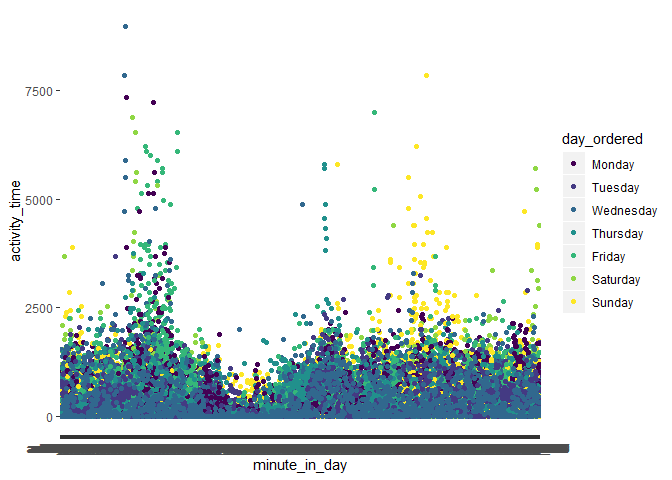
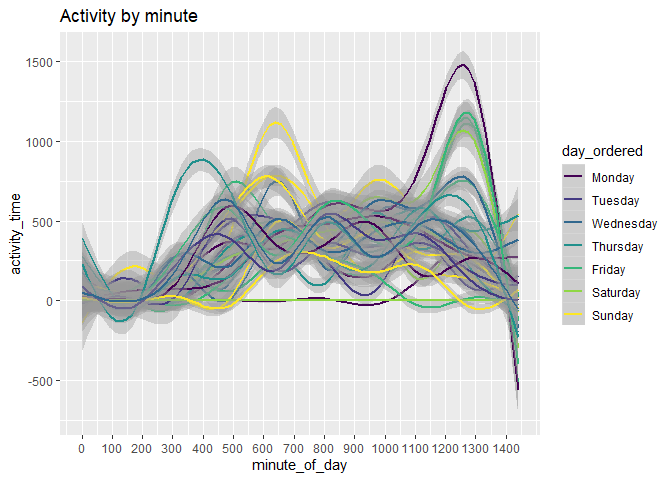
Updating questions 2 and 3

diff --git a/p8105_hw3_fw2334.md b/p8105_hw3_fw2334.md
@@ -35,12 +35,16 @@ aisle_plot
 
 ### Table
 
+##### Light brown sugar, 499
+
+##### 975
+
 ``` r
 aisles_table = instacart %>%
   filter(aisle == c("baking ingredients", "dog food care", "packaged vegetables fruits")) %>% 
   group_by(aisle, product_name) %>% 
   summarize(product_name_count = n()) %>% 
-  mutate(product_rank = min_rank(-product_name_count)) %>% 
+  mutate(product_rank = rank(-product_name_count)) %>% 
   filter(product_rank <= 3) %>% 
   mutate(product_info = paste(product_name, product_name_count, sep = ", n = ")) %>% 
   select(-product_name, -product_name_count) %>% 
@@ -58,6 +62,10 @@ knitr::kable(aisles_table)
 |             2 | Pure Baking Soda, n = 140        | Organix Chicken & Brown Rice Recipe, n = 13             | Organic Raspberries, n = 1920  |
 
 ### Pink Lady Apples and Coffee Ice Cream
+
+##### 0 is Sunday - say “I’m assigning Sunday to 0”
+
+##### convert times to hour of day
 
 ``` r
 apples_icecream_table = instacart %>% 
@@ -93,12 +101,22 @@ brfss_cleaned = brfss_smart2010 %>%
   janitor::clean_names() %>%
   filter(topic == "Overall Health") %>% 
   mutate(
-    state = locationabbr,
     response_f = as.factor(response),
-    response_ordered = ordered(response_f, levels = c("Poor", "Fair", "Good", "Very good", "Excellent")))
+    response_ordered = ordered(response_f, levels = c("Poor", "Fair", "Good", "Very good", "Excellent"))) %>% 
+  separate(locationdesc, c("state", "county"), " - ") %>% 
+  select(-locationabbr, -response_f)
 ```
 
-### States at 7 or more locations
+``` r
+brfss_7locations = brfss_cleaned %>% 
+  group_by(year, state) %>% 
+  summarize(location_count = n_distinct(county)) %>% 
+  filter((year == "2002" | year == "2010") & location_count >= 7)
+```
+
+In 2002, the states with 7 or more distinct locations were CT, FL, MA,
+NC, NJ, PA. in 2010, CA, CO, FL, MA, MD, NC, NE, NJ, NY, OH, PA, SC, TX,
+WA.
 
 ``` r
 brfss_excellent = brfss_cleaned %>% 
@@ -135,11 +153,18 @@ brfss_ny
 ``` r
 accel_df = read_csv(file = "./data/accel_data.csv") %>% 
   janitor::clean_names() %>% 
+   pivot_longer(
+    activity_1:activity_1440,
+    names_to = "minute",
+    values_to = "activity_time") %>% 
   mutate(
     day_type = ifelse(day == "Saturday" | day == "Sunday", "weekend", "weekday"),
     day_f = as.factor(day),
     day_ordered = ordered(
-      day_f, levels = c("Monday", "Tuesday", "Wednesday", "Thursday", "Friday", "Saturday", "Sunday")))
+      day_f, levels = c("Monday", "Tuesday", "Wednesday", "Thursday", "Friday", "Saturday", "Sunday")),
+    minute = substr(minute, 10, nchar(minute)),
+    minute_of_day = as.numeric(minute)) %>%
+  select(-day_f, -day, minute)
 ```
 
     ## Parsed with column specification:
@@ -150,41 +175,65 @@ accel_df = read_csv(file = "./data/accel_data.csv") %>%
 
     ## See spec(...) for full column specifications.
 
-This dataset has 35 observations.
+This dataset has 50400 observations. Do pivot longer 50400 observations
+and 6 variables.
 
 ``` r
 accel_total = accel_df %>% 
-  mutate(total_activity = 
-           select(., activity_1:activity_1440) %>% 
-           rowSums(na.rm = TRUE)) %>% 
-  select(day_ordered, total_activity)  %>% 
-  group_by(day_ordered) %>% 
-  summarize(total_activity = sum(total_activity))
+  group_by(day_id) %>% 
+  summarize(total_activity = sum(activity_time, na.rm = TRUE))
 
 knitr::kable(accel_total)
 ```
 
-| day\_ordered | total\_activity |
-| :----------- | --------------: |
-| Monday       |         1858699 |
-| Tuesday      |         1799238 |
-| Wednesday    |         2129772 |
-| Thursday     |         2091151 |
-| Friday       |         2291711 |
-| Saturday     |         1369237 |
-| Sunday       |         1919213 |
+| day\_id | total\_activity |
+| ------: | --------------: |
+|       1 |       480542.62 |
+|       2 |        78828.07 |
+|       3 |       376254.00 |
+|       4 |       631105.00 |
+|       5 |       355923.64 |
+|       6 |       307094.24 |
+|       7 |       340115.01 |
+|       8 |       568839.00 |
+|       9 |       295431.00 |
+|      10 |       607175.00 |
+|      11 |       422018.00 |
+|      12 |       474048.00 |
+|      13 |       423245.00 |
+|      14 |       440962.00 |
+|      15 |       467420.00 |
+|      16 |       685910.00 |
+|      17 |       382928.00 |
+|      18 |       467052.00 |
+|      19 |       371230.00 |
+|      20 |       381507.00 |
+|      21 |       468869.00 |
+|      22 |       154049.00 |
+|      23 |       409450.00 |
+|      24 |         1440.00 |
+|      25 |       260617.00 |
+|      26 |       340291.00 |
+|      27 |       319568.00 |
+|      28 |       434460.00 |
+|      29 |       620860.00 |
+|      30 |       389080.00 |
+|      31 |         1440.00 |
+|      32 |       138421.00 |
+|      33 |       549658.00 |
+|      34 |       367824.00 |
+|      35 |       445366.00 |
 
 ``` r
 accel_24hr = accel_df %>% 
-  select(day_ordered, activity_1:activity_1440) %>% 
-  pivot_longer(
-    activity_1:activity_1440,
-    names_to = "minute_in_day",
-    values_to = "activity_time") %>% 
-  ggplot(aes(x = minute_in_day, y = activity_time, group = day_ordered, color = day_ordered)) +
-    geom_point()
+  ggplot(aes(x = minute_of_day, y = activity_time, group = day_id, color = day_ordered)) +
+    geom_smooth() +
+    labs(title = "Activity by minute") +
+    scale_x_continuous(breaks = seq(from = 0, to = 1440, by = 100))
 
 accel_24hr
 ```
+
+    ## `geom_smooth()` using method = 'gam' and formula 'y ~ s(x, bs = "cs")'
 
 ![](p8105_hw3_fw2334_files/figure-gfm/unnamed-chunk-12-1.png)<!-- -->
